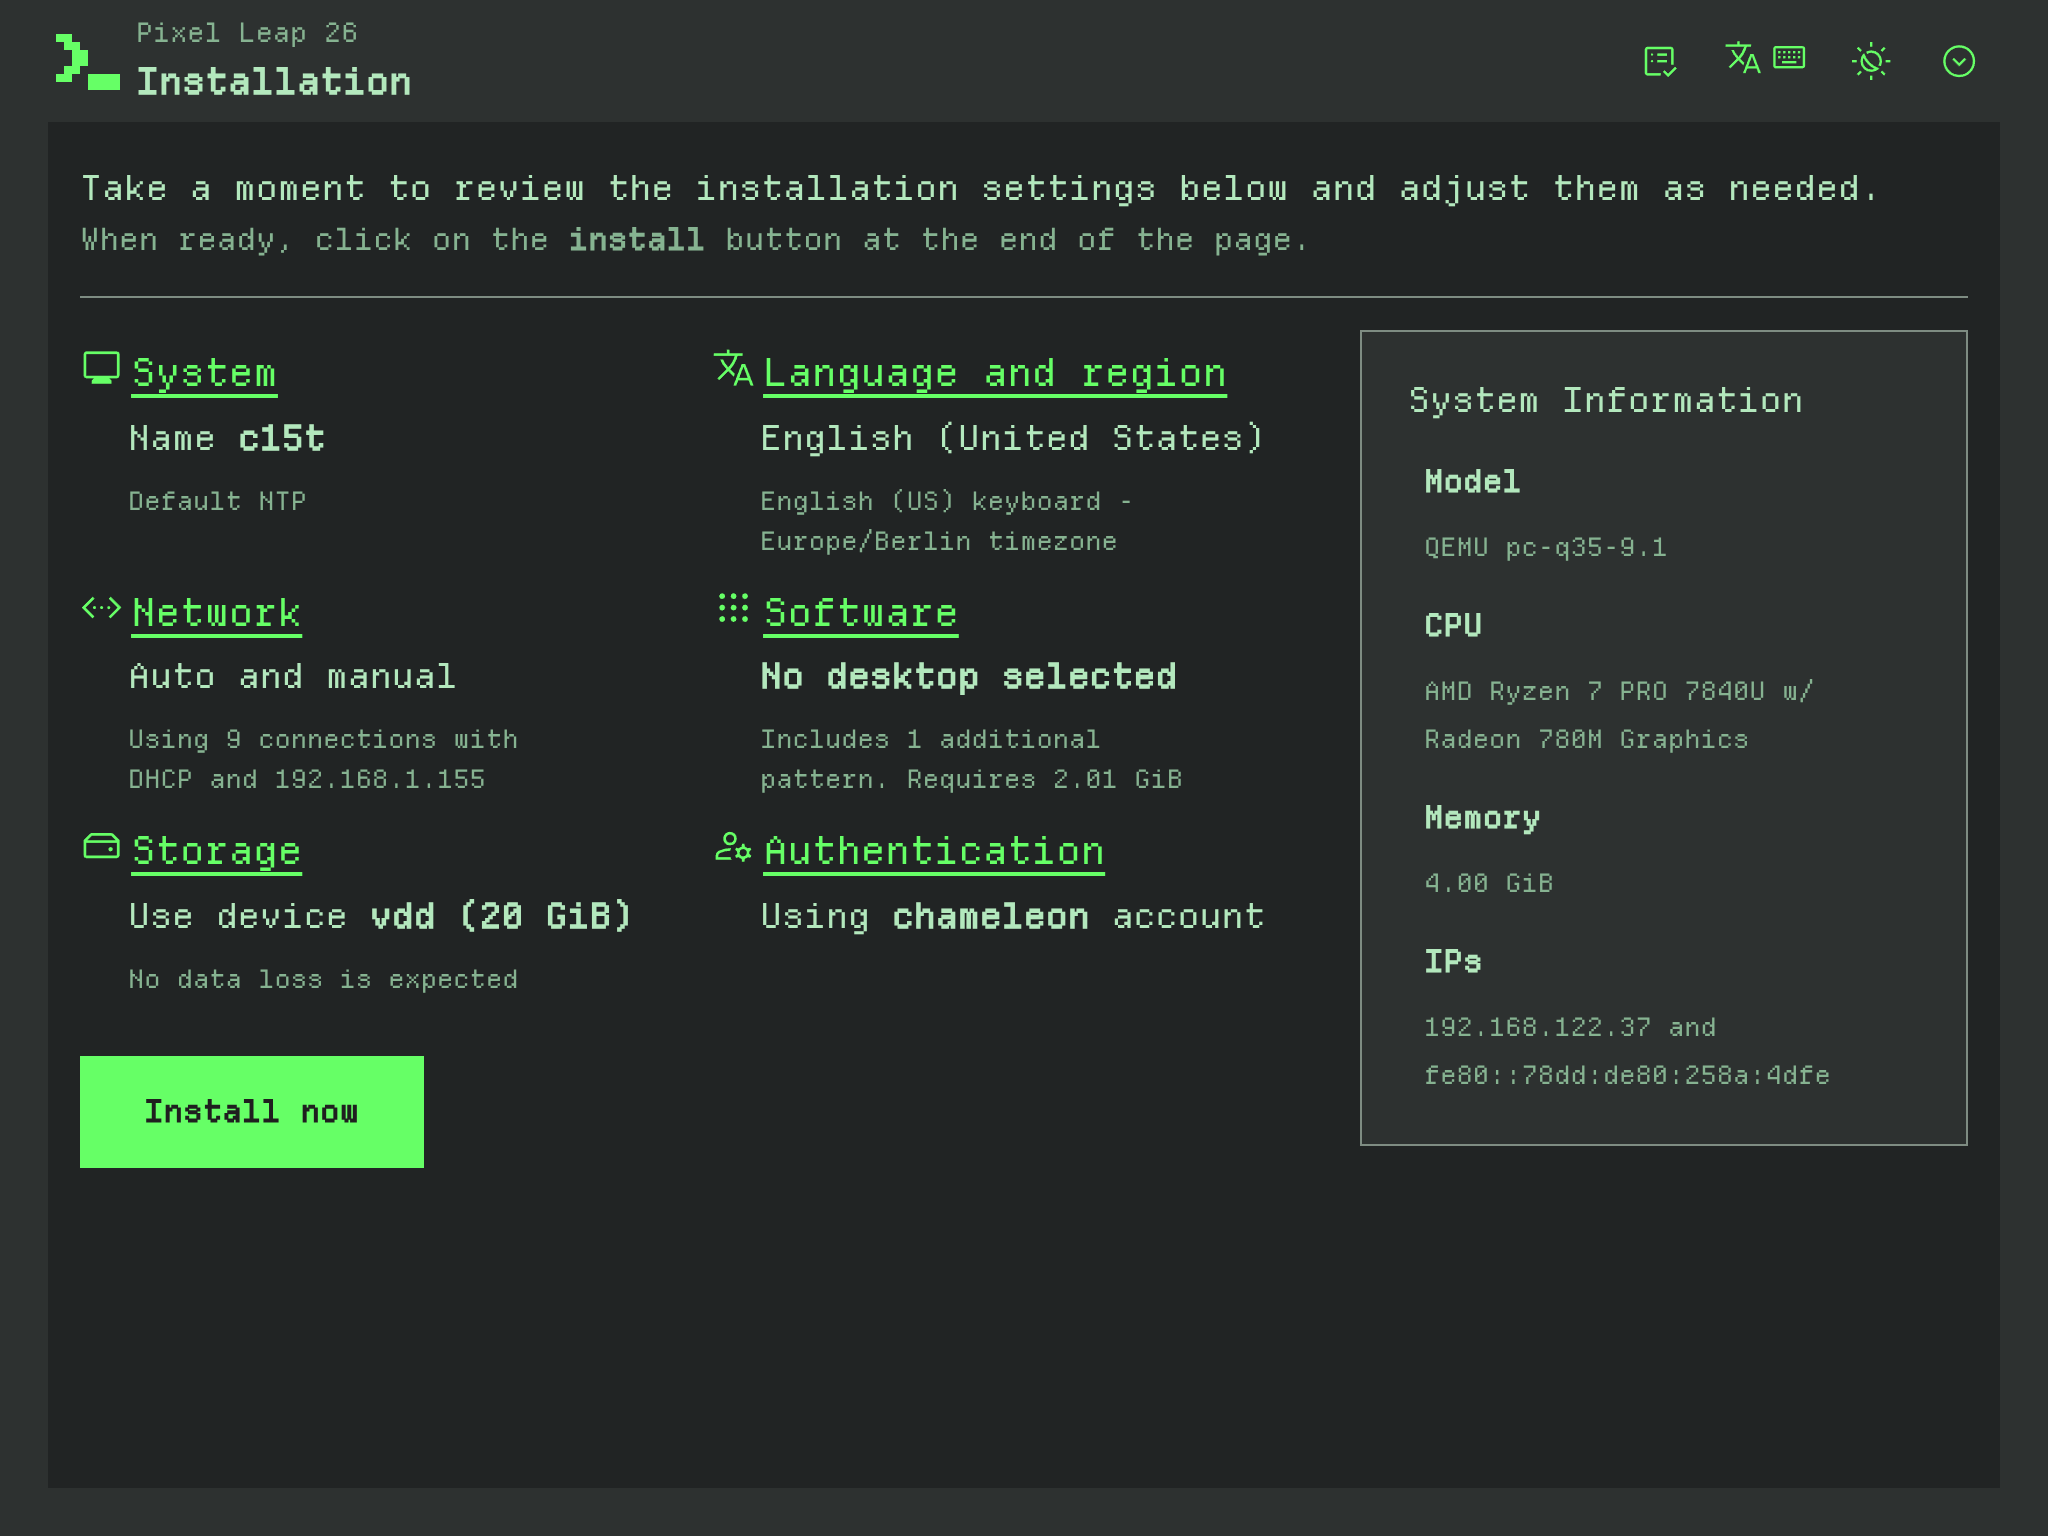
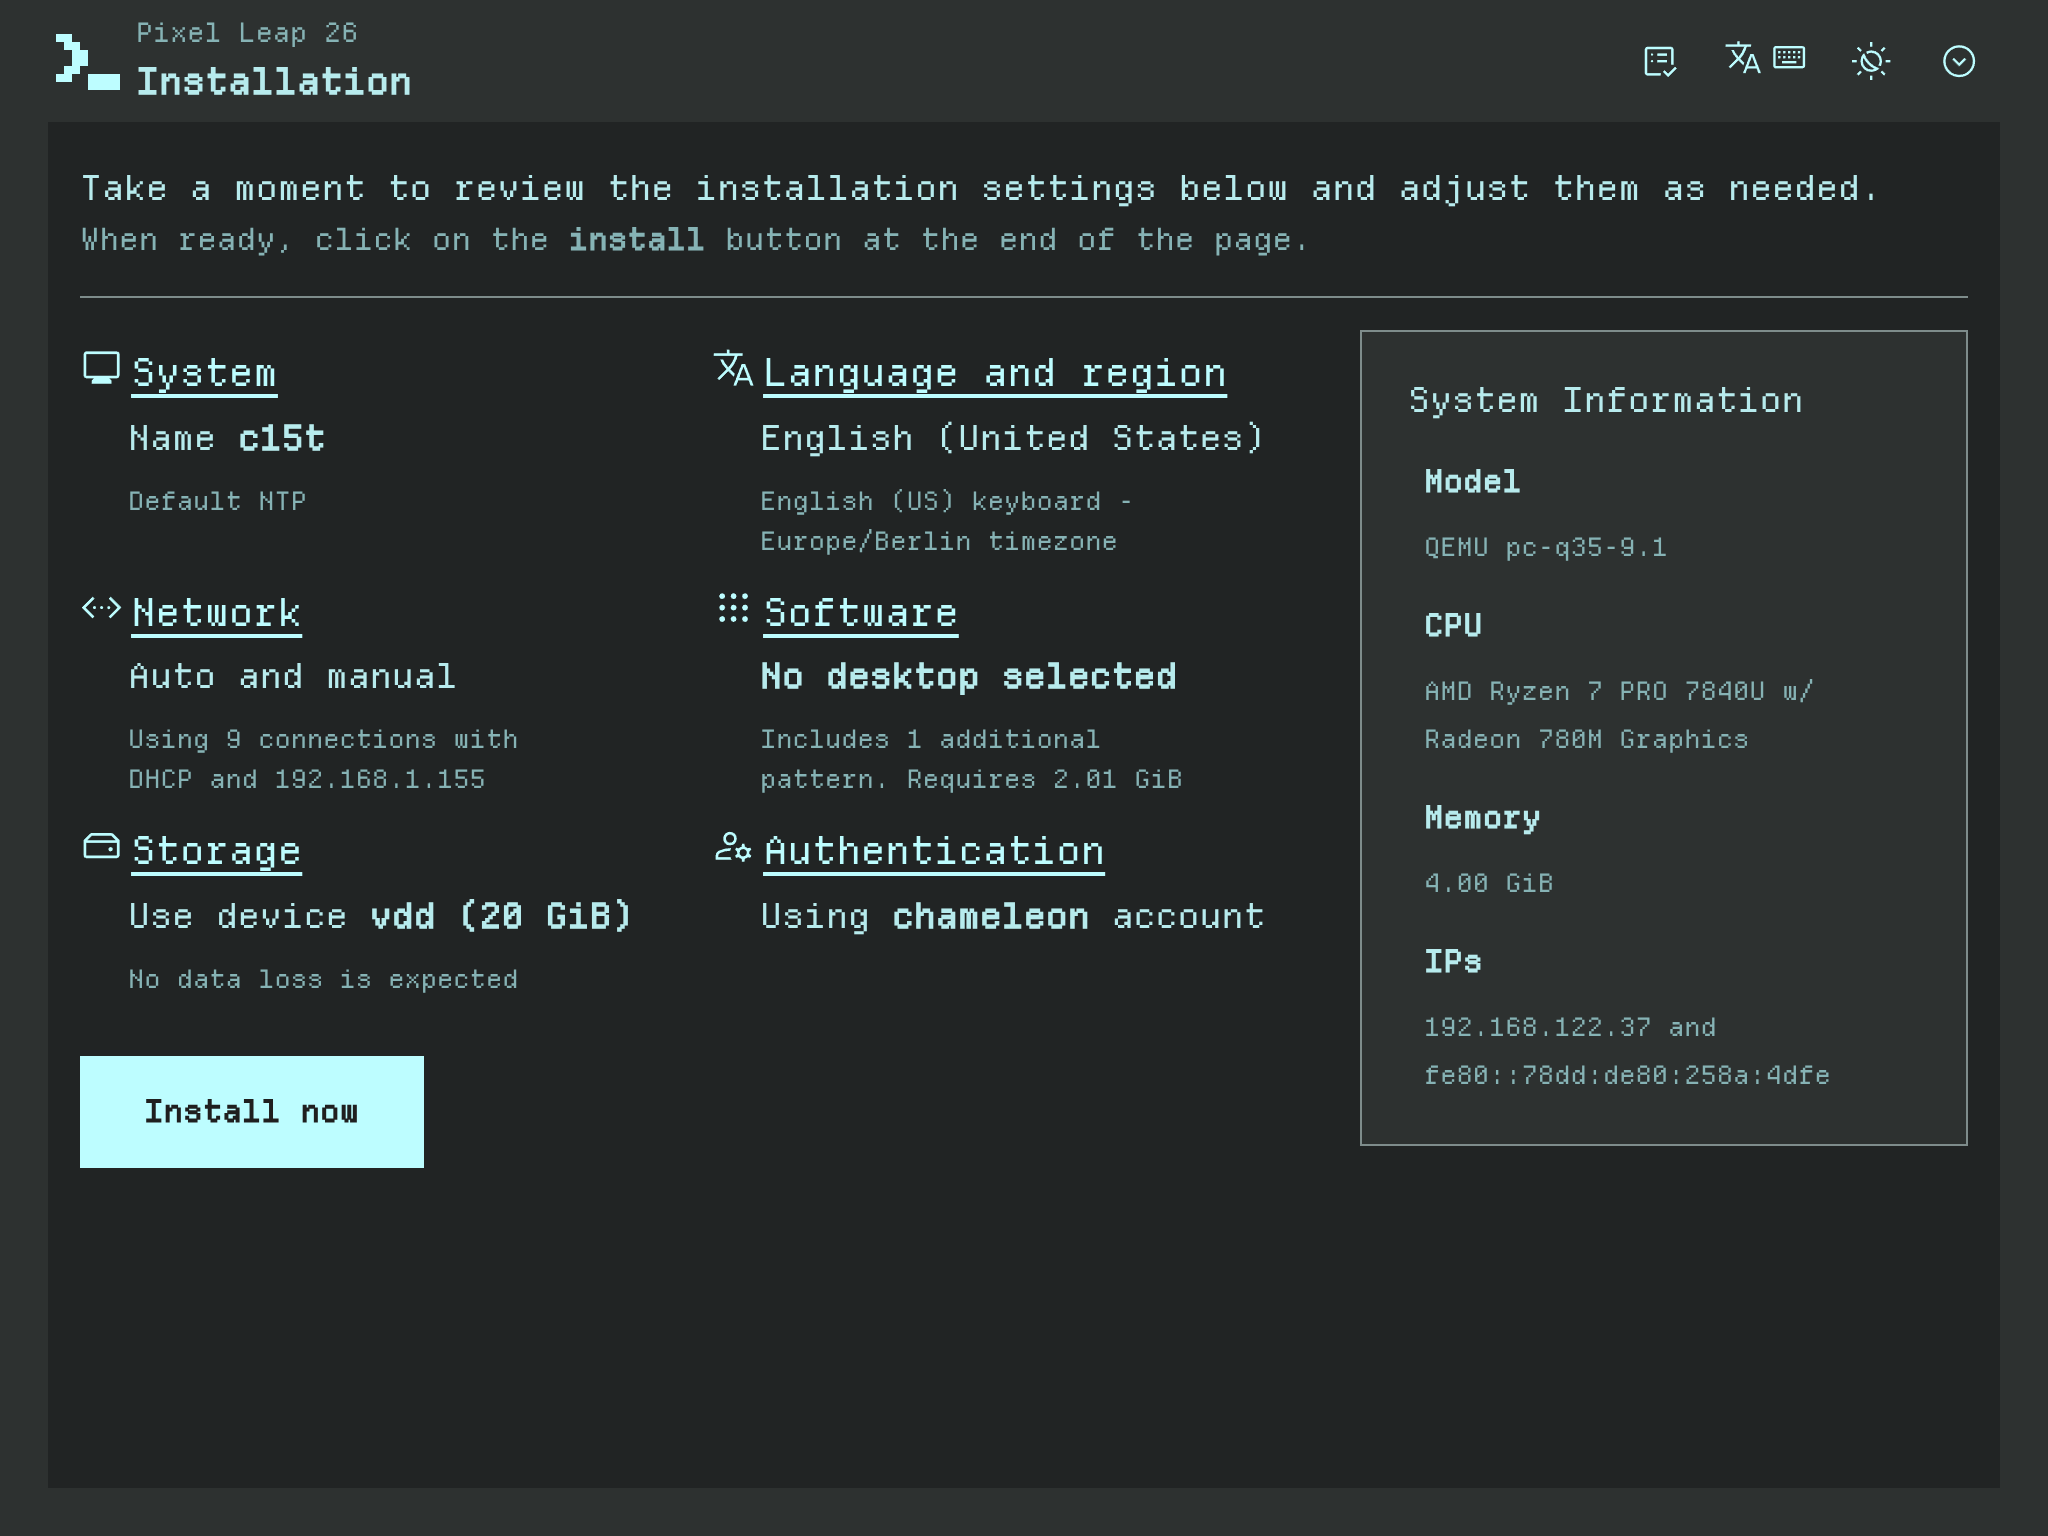
doc(web): use the cyan screenshot for the third skin

diff --git a/doc/product_theming_examples.md b/doc/product_theming_examples.md
@@ -386,7 +386,7 @@ folded in:
 > real size", "a tooltip over a busy screen", "the overview at 1024x768", "the
 > Greek and Cyrillic translations mid-sentence", not "please review".
 
-![The installation overview in the Pixel Leap 26 skin: green text on charcoal, a pixel typeface, a pixel caret for a logo and a full-color primary button](images/theming/pixel-leap-26.png)
+![The installation overview in the Pixel Leap 26 skin: pale cyan text on charcoal, a pixel typeface, a pixel caret for a logo and a cyan primary button](images/theming/pixel-leap-26.png)
 
 ### The decisions the poster does not make
 
